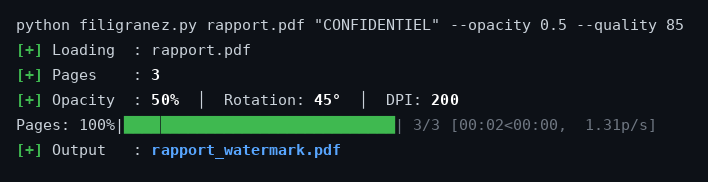
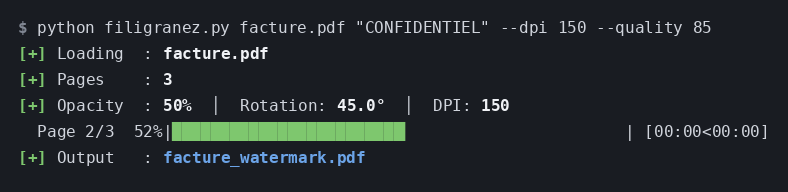
Improve gouv feature, generated example and update the readme

diff --git a/filigranez.py b/filigranez.py
@@ -208,6 +208,9 @@ GOUV_GRAIN        = 0.16            # relative spread of the per-pixel ink alpha
 GOUV_GLOW_RADIUS  = 0.48
 GOUV_FONT_DIV     = 45              # auto font size: page width / 45
 CLASSIC_FONT_DIV  = 18
+CLASSIC_COLOR     = "#DC1414"
+CLASSIC_OPACITY   = 0.5
+CLASSIC_ROTATION  = 45.0
 
 
 # The reference sets its watermark in an Arial-metric face, not in DejaVu:
@@ -563,16 +566,18 @@ Examples:
                              "tiling at 25° with a few pale-red repetitions "
                              "(--opacity/--rotation/--color/--font-size still override)")
     parser.add_argument("--opacity",      "-o", type=float, default=None,
-                        metavar="FLOAT",  help="Opacity 0.0–1.0 (default: 0.5)")
+                        metavar="FLOAT",  help=f"Opacity 0.0–1.0 (default: {CLASSIC_OPACITY}, "
+                                               f"gouv: {GOUV_OPACITY})")
     parser.add_argument("--rotation",     "-r", type=float, default=None,
-                        metavar="DEG",    help="Rotation in degrees (default: 45, gouv: 25)")
+                        metavar="DEG",    help=f"Rotation in degrees (default: {CLASSIC_ROTATION:g}, "
+                                               f"gouv: {GOUV_ROTATION:g})")
     parser.add_argument("--dpi",          "-d", type=int,   default=200,
                         metavar="INT",    help="Rendering DPI (default: 200)")
     parser.add_argument("--font-size",    "-f", type=int,   default=None,
                         metavar="INT",    help="Font size in pixels (default: auto)")
     parser.add_argument("--color",        "-c", type=str,   default=None,
                         metavar="COLOR",  help="Text color: #RRGGBB or name "
-                                              "(default: #DC1414, gouv: #505050)")
+                                              f"(default: {CLASSIC_COLOR}, gouv: {GOUV_COLOR})")
     parser.add_argument("--page-size",    "-P", choices=("keep", "a4"), default="keep",
                         help="Output page size: 'keep' preserves the input page size, "
                              "'a4' normalises every page to A4 (scaled to fit, "
@@ -589,11 +594,11 @@ Examples:
     # Per-style defaults; explicit flags always win, in either style.
     style = "gouv" if args.gouv else "classic"
     if args.opacity is None:
-        args.opacity = GOUV_OPACITY if args.gouv else 0.5
+        args.opacity = GOUV_OPACITY if args.gouv else CLASSIC_OPACITY
     if args.rotation is None:
-        args.rotation = GOUV_ROTATION if args.gouv else 45.0
+        args.rotation = GOUV_ROTATION if args.gouv else CLASSIC_ROTATION
     if args.color is None:
-        args.color = GOUV_COLOR if args.gouv else "#DC1414"
+        args.color = GOUV_COLOR if args.gouv else CLASSIC_COLOR
 
     if not 0.0 <= args.opacity <= 1.0:
         error("--opacity must be between 0.0 and 1.0")

diff --git a/README.md b/README.md
@@ -1,60 +1,35 @@
 ![filigranez](logo-dark.png)
 
-PDF watermarking tool. The watermark is baked directly into the page pixels — it cannot be removed by editing PDF objects or deleting layers.
+PDF watermarking tool. The watermark is baked directly into the page pixels — it cannot be removed by editing PDF objects, deleting layers, or copying text out.
 
 ![Before / After](example.png)
 
 ```bash
-python filigranez.py document.pdf "CONFIDENTIEL"
+python filigranez.py facture.pdf "CONFIDENTIEL"
 ```
 
----
-
-![Before / After — custom color](example2.png)
-
-```bash
-python filigranez.py document.pdf "BROUILLON" --color "#1E6FFF" --rotation 30 --font-size 38
-```
+The output goes to `facture_watermark.pdf`, next to the original. Nothing is written over the input.
 
 ---
 
-## Output example
-
-![Output example](output-example.png)
-
----
-
-## How it works
-
-1. Each PDF page is rasterized into an image (via poppler)
-2. The watermark text is drawn pixel-by-pixel onto the image (via Pillow)
-3. The images are recompiled into a new PDF (via img2pdf)
-
-The resulting PDF contains only raster images — no text objects, no layers, no removable elements.
-
-Pages are rendered and composited one at a time, so memory use stays flat regardless of how many pages the document has. When consecutive pages share the same dimensions — the usual case — the watermark layer is computed once and reused.
-
-## Dependencies
-
-### Python packages
+## Install
 
 ```bash
 pip install -r requirements.txt
 ```
 
-`colorama` (colored output on Windows) and `tqdm` (progress bars) are optional — the tool runs without them, falling back to plain per-page log lines.
+`colorama` (colored output on Windows) and `tqdm` (progress bars) are optional — the tool runs without them, printing one line per page instead of a bar.
 
-### System — Linux
+Rendering needs poppler:
 
 ```bash
-sudo apt-get install poppler-utils
+sudo apt-get install poppler-utils          # Debian / Ubuntu
+brew install poppler                        # macOS
 ```
 
-### System — Windows
+On Windows, download [poppler-windows](https://github.com/oschwartz10612/poppler-windows/releases) and point `--poppler-path` at its `bin/` directory.
 
-Download and install poppler for Windows: https://github.com/oschwartz10612/poppler-windows/releases
-
-Then pass the bin path with `--poppler-path`.
+---
 
 ## Usage
 
@@ -62,117 +37,187 @@ Then pass the bin path with `--poppler-path`.
 filigranez.py <input> <text> [output] [options]
 ```
 
-### Arguments
+### Positional arguments
 
-| Argument | Description |
-|----------|-------------|
-| `input` | Input PDF file or directory |
-| `text` | Watermark text |
-| `output` | Output PDF file (single file mode only, optional) |
+| Argument | Required | Description |
+|----------|----------|-------------|
+| `input` | yes | Input PDF file, or a directory to process recursively |
+| `text` | yes | The watermark text |
+| `output` | no | Output PDF path. Single-file mode only; ignored for a directory. Defaults to `<input>_<suffix>.pdf` |
 
 ### Options
 
 | Flag | Short | Default | Description |
 |------|-------|---------|-------------|
-| `--opacity` | `-o` | `0.5` | Opacity from 0.0 (invisible) to 1.0 (solid) |
-| `--rotation` | `-r` | `45` | Rotation angle in degrees |
-| `--page-size` | `-P` | `keep` | `keep` preserves the input page size; `a4` normalises every page to A4 |
-| `--dpi` | `-d` | `200` | Rendering resolution (higher = better quality, larger file) |
-| `--font-size` | `-f` | auto | Font size in pixels (default: page width / 18) |
-| `--color` | `-c` | `#DC1414` | Watermark text color — `#RRGGBB` or a color name (e.g. `red`, `navy`) |
-| `--quality` | `-q` | `95` | JPEG quality 1–95 (lower = smaller file, more compression) |
-| `--suffix-name` | `-s` | `watermark` | Suffix appended to output filename(s) |
-| `--poppler-path` | `-p` | — | Path to poppler `bin/` directory (Windows) |
+| `--gouv` | `-g` | off | Alternate style reproducing the filigrane.beta.gouv.fr watermark — see [below](#the---gouv-style) |
+| `--opacity` | `-o` | `0.5` | Opacity from `0.0` (invisible) to `1.0` (solid) |
+| `--rotation` | `-r` | `45` | Rotation in degrees. `0` is horizontal; negative values tilt the other way |
+| `--dpi` | `-d` | `200` | Rendering resolution. Higher is sharper and heavier |
+| `--font-size` | `-f` | auto | Font size in pixels. Auto means page width ÷ 18 |
+| `--color` | `-c` | `#DC1414` | Text color, `#RRGGBB` or a CSS name such as `navy` |
+| `--page-size` | `-P` | `keep` | `keep` preserves the input page size, `a4` normalises every page to A4 |
+| `--quality` | `-q` | `95` | JPEG quality, 1–95. Lower means a smaller file |
+| `--suffix-name` | `-s` | `watermark` | Suffix appended to output names |
+| `--poppler-path` | `-p` | — | Path to poppler's `bin/` directory (Windows) |
+| `--help` | `-h` | — | Full list of flags |
 
-### Page size
+Values are validated before any work starts, so a typo fails immediately rather than halfway through a batch.
 
-By default the input page size is preserved (the rendering DPI is embedded so the resulting PDF matches the original page size).
+---
 
-Pass `--page-size a4` to normalise every page to A4 instead. Pages are scaled to fit and centred, keeping their aspect ratio — nothing is stretched or cropped, so a Letter page comes out as A4 with a white band at the top and bottom. A page that is already A4 is passed through untouched rather than resampled, and landscape pages become landscape A4 rather than being rotated. Normalisation happens before the watermark is drawn, so the watermark covers the added margins too.
+## The options, side by side
 
-## Examples
+The same invoice, six settings:
+
+![Option gallery](example-options.png)
 
 ```bash
-# Single file, default settings → document_watermark.pdf
-python filigranez.py document.pdf "CONFIDENTIEL"
-
-# Custom opacity and rotation
-python filigranez.py document.pdf "DRAFT" --opacity 0.3 --rotation 30
-
-# Discreet watermark — light grey, low opacity, small text
-python filigranez.py document.pdf "INTERNE" --color "#505050" --opacity 0.35 --font-size 40
-
-# Custom watermark color (hex or name)
-python filigranez.py document.pdf "BROUILLON" --color "#1E6FFF"
-python filigranez.py document.pdf "SECRET" --color navy
-
-# Smaller output file (more JPEG compression)
-python filigranez.py document.pdf "INTERNE" --quality 70
-
-# Normalise every page to A4 instead of keeping the original size
-python filigranez.py document.pdf "INTERNE" --page-size a4
-
-# Explicit output filename
-python filigranez.py document.pdf "SECRET" output.pdf
-
-# Entire directory → creates docs_watermark/ preserving subdirectory structure
-python filigranez.py ./docs/ "INTERNE"
-
-# Custom suffix → creates docs_confidentiel/
-python filigranez.py ./docs/ "CONFIDENTIEL" --suffix-name confidentiel
-
-# High quality
-python filigranez.py document.pdf "CONFIDENTIEL" --dpi 300
-
-# Windows with explicit poppler path
-python filigranez.py document.pdf "DRAFT" --poppler-path "C:/poppler/bin"
+python filigranez.py facture.pdf "CONFIDENTIEL"
+python filigranez.py facture.pdf "INTERNE" --opacity 0.22
+python filigranez.py facture.pdf "COPIE" --rotation 0 --color "#0F7A3D"
+python filigranez.py facture.pdf "BROUILLON" --color "#1E6FFF" --rotation 30
+python filigranez.py facture.pdf "NE PAS DIFFUSER" --font-size 34 --opacity 0.35
+python filigranez.py facture.pdf "ORIGINAL" --font-size 150 --color navy
 ```
 
-Run `python filigranez.py --help` for the full list of flags.
+A low `--opacity` keeps the document comfortable to read; a large `--font-size` with a low opacity gives a single sweeping mark instead of a tiled pattern.
+
+---
+
+## The `--gouv` style
+
+`--gouv` swaps the tiled stamp for a second style, matched against the watermark produced by [filigrane.beta.gouv.fr](https://filigrane.beta.gouv.fr) — the French service people use to mark ID documents and payslips before sending them to a landlord or an agency.
+
+![The --gouv style](example-gouv.png)
+
+```bash
+python filigranez.py piece-identite.pdf "document destiné exclusivement à la location" --gouv
+```
+
+It differs from the default style in more than its colors:
+
+- **One ink per line**, never two on the same line. Four inks — near-black, light grey, navy and red — are dealt so that any four consecutive lines carry each of them exactly once, in a random order.
+- **Each line follows a continuous sine** running the full width of the page, one cycle per repetition of the text. Because the wave never restarts between repetitions, a cut, a splice or a pasted patch breaks the curve and leaves a visible step in an otherwise smooth line.
+- **The text is grainy and sits in a soft halo**, rather than being printed crisp.
+- Shallower angle (25°), wider line spacing, smaller type, and a lighter overall weight than the default style.
+
+The wave amplitude, the ink order and the per-line weight are derived from the watermark text, so a given text always renders identically while two different texts differ. `--opacity`, `--rotation`, `--color` and `--font-size` still override the preset; `--color` sets the light grey of the palette, the three other inks are fixed.
+
+---
+
+## Page size
+
+By default the input page size is preserved. Pass `--page-size a4` to normalise every page to A4:
+
+![Page size](example-pagesize.png)
+
+Pages are scaled to fit and centred, keeping their aspect ratio — nothing is stretched or cropped, so a Letter page comes out as A4 with a white band top and bottom. A page that is already A4 passes through untouched rather than being resampled, and a landscape page becomes landscape A4 rather than being rotated. Normalisation happens before the watermark is drawn, so the watermark covers the added margins too.
+
+---
 
 ## Directory mode
 
-When the input is a directory, the tool:
-- Scans recursively for all `.pdf` files
-- Preserves the original directory structure in the output
-- Creates an output directory named `<input_dir>_<suffix>`
-- Leaves original files untouched
-- Skips unreadable/corrupt PDFs and keeps going (a summary of failures is printed, and the exit code is non-zero if any file failed)
+Point `input` at a directory and every `.pdf` under it is processed:
+
+```bash
+python filigranez.py ./dossiers/ "INTERNE"
+```
 
 ```
-docs/
-├── report.pdf
-└── contracts/
-    └── contract.pdf
-
-docs_watermark/
-├── report_watermark.pdf
-└── contracts/
-    └── contract_watermark.pdf
+dossiers/                        dossiers_watermark/
+├── rapport.pdf          →       ├── rapport_watermark.pdf
+└── contrats/                    └── contrats/
+    └── bail.pdf                     └── bail_watermark.pdf
 ```
+
+- Scans recursively, preserving the directory structure
+- Writes to a sibling directory named `<input_dir>_<suffix>`
+- Leaves the originals untouched
+- Skips unreadable or corrupt PDFs and keeps going; a summary is printed at the end and the exit code is non-zero if any file failed
+- Processes duplicates once (symlinks, or case-variant names on case-insensitive filesystems)
+
+Use `--suffix-name` to rename both the directory and the files:
+
+```bash
+python filigranez.py ./dossiers/ "CONFIDENTIEL" --suffix-name confidentiel
+# → dossiers_confidentiel/rapport_confidentiel.pdf
+```
+
+---
+
+## Output
+
+![Terminal output](output-example.png)
+
+The progress bar follows the actual work rather than the page count, so it still moves on a single-page document. It disappears when output is redirected to a file or a pipe, where one line per page is printed instead, without escape codes. Colors are dropped when `NO_COLOR` is set, and box-drawing characters fall back to plain ASCII on consoles that cannot encode them.
+
+---
+
+## More examples
+
+```bash
+# Explicit output filename
+python filigranez.py facture.pdf "SECRET" archive/facture-2026.pdf
+
+# Print quality
+python filigranez.py facture.pdf "CONFIDENTIEL" --dpi 300
+
+# Smaller file, for email
+python filigranez.py facture.pdf "INTERNE" --quality 70 --dpi 150
+
+# Discreet mark on a document meant to stay readable
+python filigranez.py contrat.pdf "COPIE NON CERTIFIÉE" --opacity 0.2 --font-size 40
+
+# Normalise a batch of mixed formats to A4
+python filigranez.py ./scans/ "ARCHIVE" --page-size a4
+
+# The alternate style, over a whole folder
+python filigranez.py ./pieces/ "réservé au dossier de location" --gouv
+
+# Windows
+python filigranez.py facture.pdf "DRAFT" --poppler-path "C:/poppler/bin"
+```
+
+---
+
+## How it works
+
+1. Each page is rasterised with poppler
+2. The watermark is drawn onto the pixels with Pillow
+3. The pages are recompiled into a PDF with img2pdf
+
+The result contains only raster images — no text objects, no annotations, no optional content groups, nothing selectable or deletable.
+
+Pages are rendered and composited one at a time, so memory stays flat regardless of document length. When consecutive pages share dimensions — the usual case — the watermark layer is computed once and reused.
+
+---
 
 ## Safety checks
 
 - Refuses to write the output over the input file
-- Validates `--opacity`, `--dpi`, `--font-size`, `--quality` and `--color` before doing any work
+- Validates `--opacity`, `--dpi`, `--font-size`, `--quality`, `--page-size` and `--color` before doing any work
 - Rejects empty watermark text
-- Duplicate files (symlinks, case-variant names) are processed once in directory mode
+- Creates missing output directories rather than failing at the last step
 
-## License
-
-GPL v3 — see [LICENSE](LICENSE)
-
-Any modification or project integrating filigranez must remain open source under the same license.
+---
 
 ## Nix / NixOS
 
-A `flake.nix` is included for reproducible builds with all dependencies pinned, poppler included.
+A `flake.nix` is included for reproducible builds, poppler included.
 
 ```bash
-# Enter a shell with filigranez and all dependencies available
+# Shell with filigranez and all dependencies
 nix develop
-filigranez document.pdf "CONFIDENTIEL"
+filigranez facture.pdf "CONFIDENTIEL"
 
-# Or run it directly without installing anything
-nix run . -- document.pdf "CONFIDENTIEL"
+# Or run it directly, installing nothing
+nix run . -- facture.pdf "CONFIDENTIEL"
 ```
+
+---
+
+## License
+
+GPL v3 — see [LICENSE](LICENSE).
+
+Any modification, or any project integrating filigranez, must remain open source under the same license.
